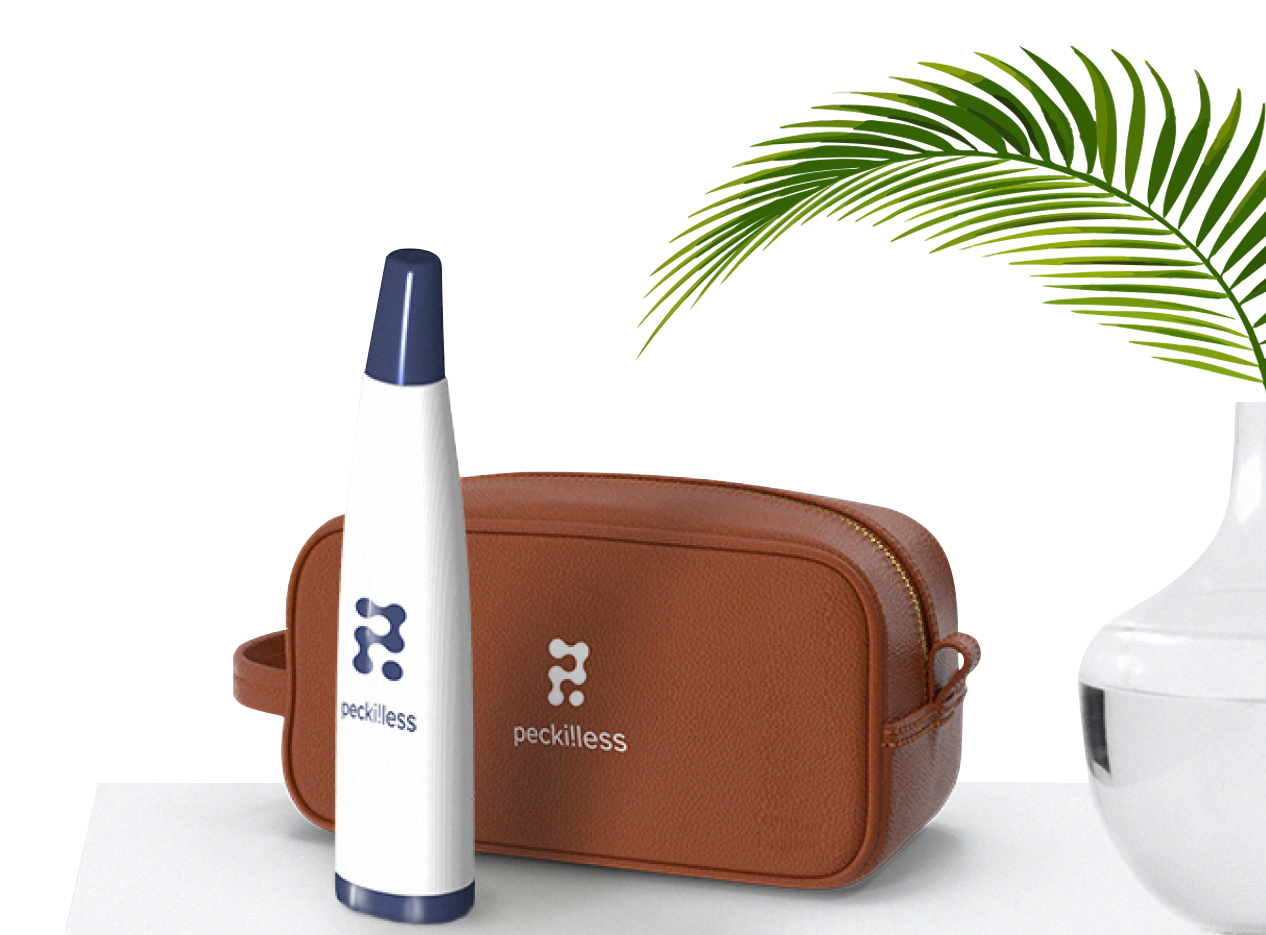
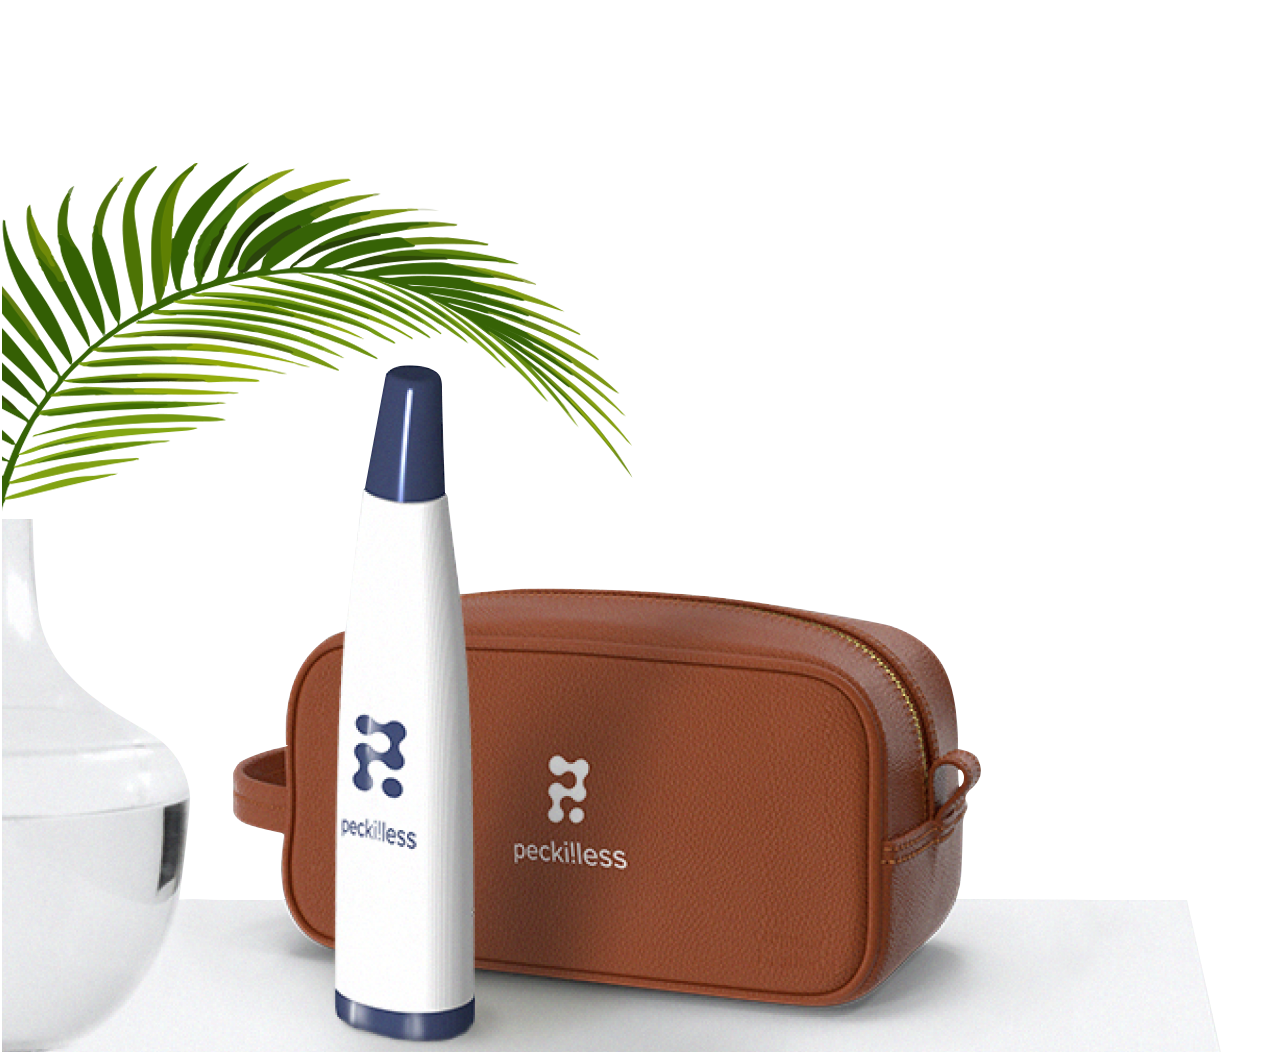
update healthcare design

diff --git a/app/healthcare/Pregnancy.tsx b/app/healthcare/Pregnancy.tsx
@@ -2,31 +2,39 @@ import Image from "next/image";
 
 export default function Pregnancy() {
   return (
-    <section className="bg-patternLady bg-no-repeat bg-contain  bg-bottom">
-      <p className="font-medium text-[3.125rem] text-primary-800 leading-[3.75rem] p-20 w-[100%]">
-        Here at Pickiless we have created the one of the first advanced
-        breathalyzer that can monitor your glucose levels.
+    <section className="">
+      <p className="text-center font-medium text-[2.625rem] text-primary-800 leading-[3.25rem] py-36 w-[81rem] mx-auto">
+        Both the number of cases and the prevalence of diabetes have been
+        steadily increasing over the past few decades. Testing and monitoring of
+        these illnesses have gotten stuck in development for years upon years,
+        it’s time to globalize an easier option for monitoring your glucose
+        testing in an easy, effecient way.
       </p>
-      <div className="grid sm:grid-cols-2 ">
-        <div className="px-20 justify-self-end">
+      <div className="grid sm:grid-cols-12 ">
+        <div className="col-span-5 justify-self-center">
           <Image
             src="/pregnant.png"
-            width={450}
-            height={600}
+            width={388}
+            height={822}
             alt="logo"
             priority={true}
           />
         </div>
-        <div className="text-right px-12 py-10">
+        <div className="text-right col-span-7 px-[14%] self-center">
           <p className="font-medium text-[3.125rem] text-primary-800 leading-[3.75rem] pb-10">
             Living with Diabetes
           </p>
-          <p className="text-[1.625rem] ">
-            Pregnant women living with diabetes increases risks of
-            complications, having a cesarean delivery, increases babies’ risk of
-            being born too large and developing obesity or type 2 diabetes in
-            the future. But by using breathalyzer she has a less intrusive way
-            of monitor her glucose levels multiple times a day.
+          <p className="text-[1.75rem] pb-10">
+            Moreover, women diagnosed with gestational diabetes often need to
+            prick their fingers up to 7 times a day, causing painful disruptions
+            to their daily life and contributing to the disposal of billions of
+            one-time-use needles and test strips every day.
+          </p>
+          <p className="text-[1.75rem] ">
+            In addition, people with chronic diseases often need to monitor
+            vital factors regularly. Blood-based health checks can be
+            inaccessible and difficult to track, making it challenging to
+            optimize personal treatment and prevent complications.
           </p>
         </div>
       </div>

diff --git a/app/healthcare/ProductBanner.tsx b/app/healthcare/ProductBanner.tsx
@@ -15,9 +15,22 @@ export default function ProductBanner() {
     //   </div>
     // </section>
 
-    <div className="">
-      <div className="grid md:grid-cols-2 gap-2">
-        <div className="place-self-center pl-20 pt-20">
+    <div className="pt-20">
+      <p className="text-center font-medium text-[2.625rem] text-primary-800 leading-[3.25rem] py-36 w-[81rem] mx-auto">
+        At Peckiiless, we unlock the potential of Exhalation Breath, delivering
+        non-invasive comfort to everyone worldwide
+      </p>
+      <div className="grid sm:grid-cols-12">
+        <div className="col-span-7">
+          <Image
+            src="/product.png"
+            width={1000}
+            height={464}
+            alt="logo"
+            priority={true}
+          />
+        </div>
+        <div className="col-span-5 px-[14%] self-center">
           <p className="font-bold text-[3.125rem] text-primary-800 pb-10">
             Breathalyzer
           </p>
@@ -27,22 +40,12 @@ export default function ProductBanner() {
             mobile application.
           </p>
 
-          <div className="place-self-center lg:col-span-4 p-20">
+          <div className="lg:col-span-4 py-20">
             <CustomButton
               title="More Information"
               containerStyles="bg-primary-700 font-medium text-[1.625rem] text-white rounded-[2.5rem] py-7 px-12 leading-10"
             />
           </div>
-        </div>
-
-        <div className="">
-          <Image
-            src="/product.png"
-            width={1000}
-            height={464}
-            alt="logo"
-            priority={true}
-          />
         </div>
       </div>
     </div>
